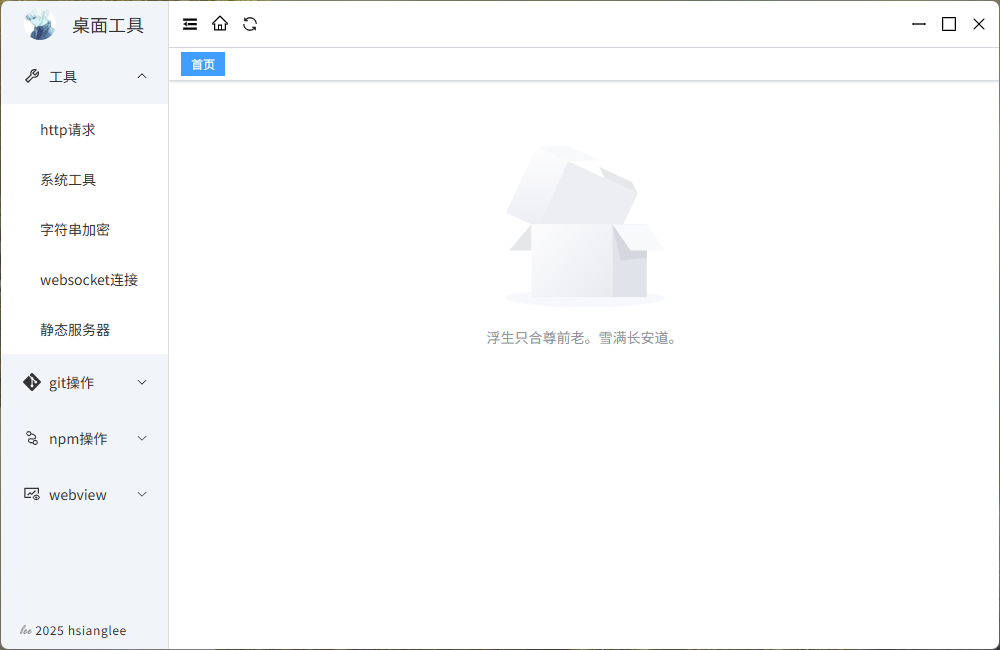
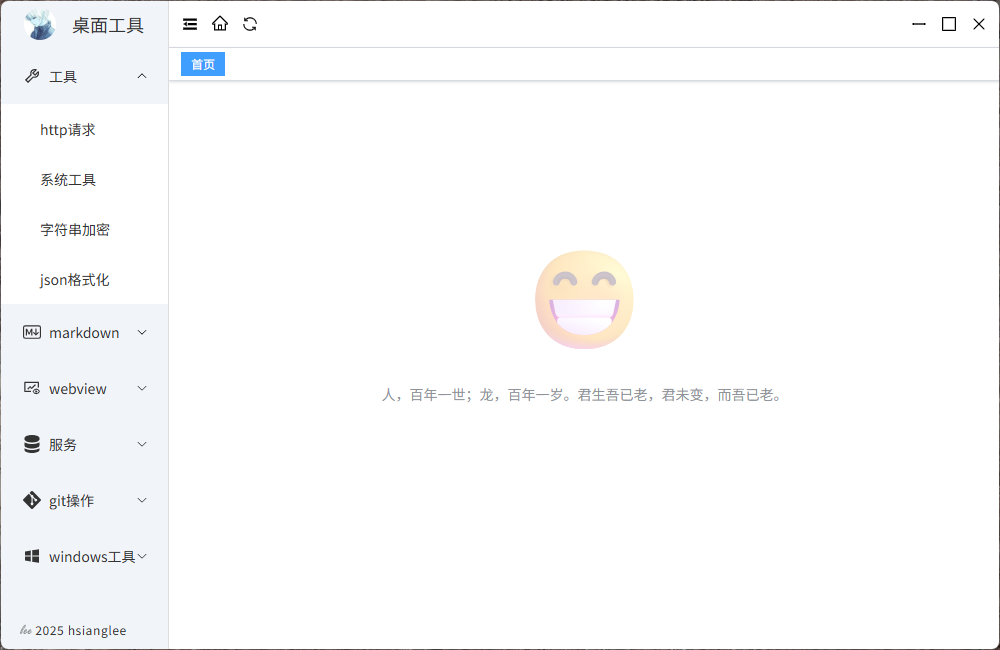
readme修改

diff --git a/README.md b/README.md
@@ -1,3 +1,35 @@
-## 使用vite + vue3 + typescript + electron编写的桌面管理工具
+## 简介
 
-![](public/image.png)
+使用vite + vue3 + typescript + electron编写的桌面管理工具
+
+## 本地开发调试
+
+```bash
+# 克隆项目
+git clone https://github.com/hsiangleev/desktool.git
+
+# 进入项目目录
+cd desktool
+
+# 安装依赖
+npm install
+
+# 前端启动服务
+npm run dev
+
+# 后端启动服务
+npm run electron:dev
+```
+
+## 打包
+
+```bash
+# 发布
+npm run build
+```
+
+## 主界面样式
+
+<p align="center">
+  <img width="80%" src="public/image.png">
+</p>
